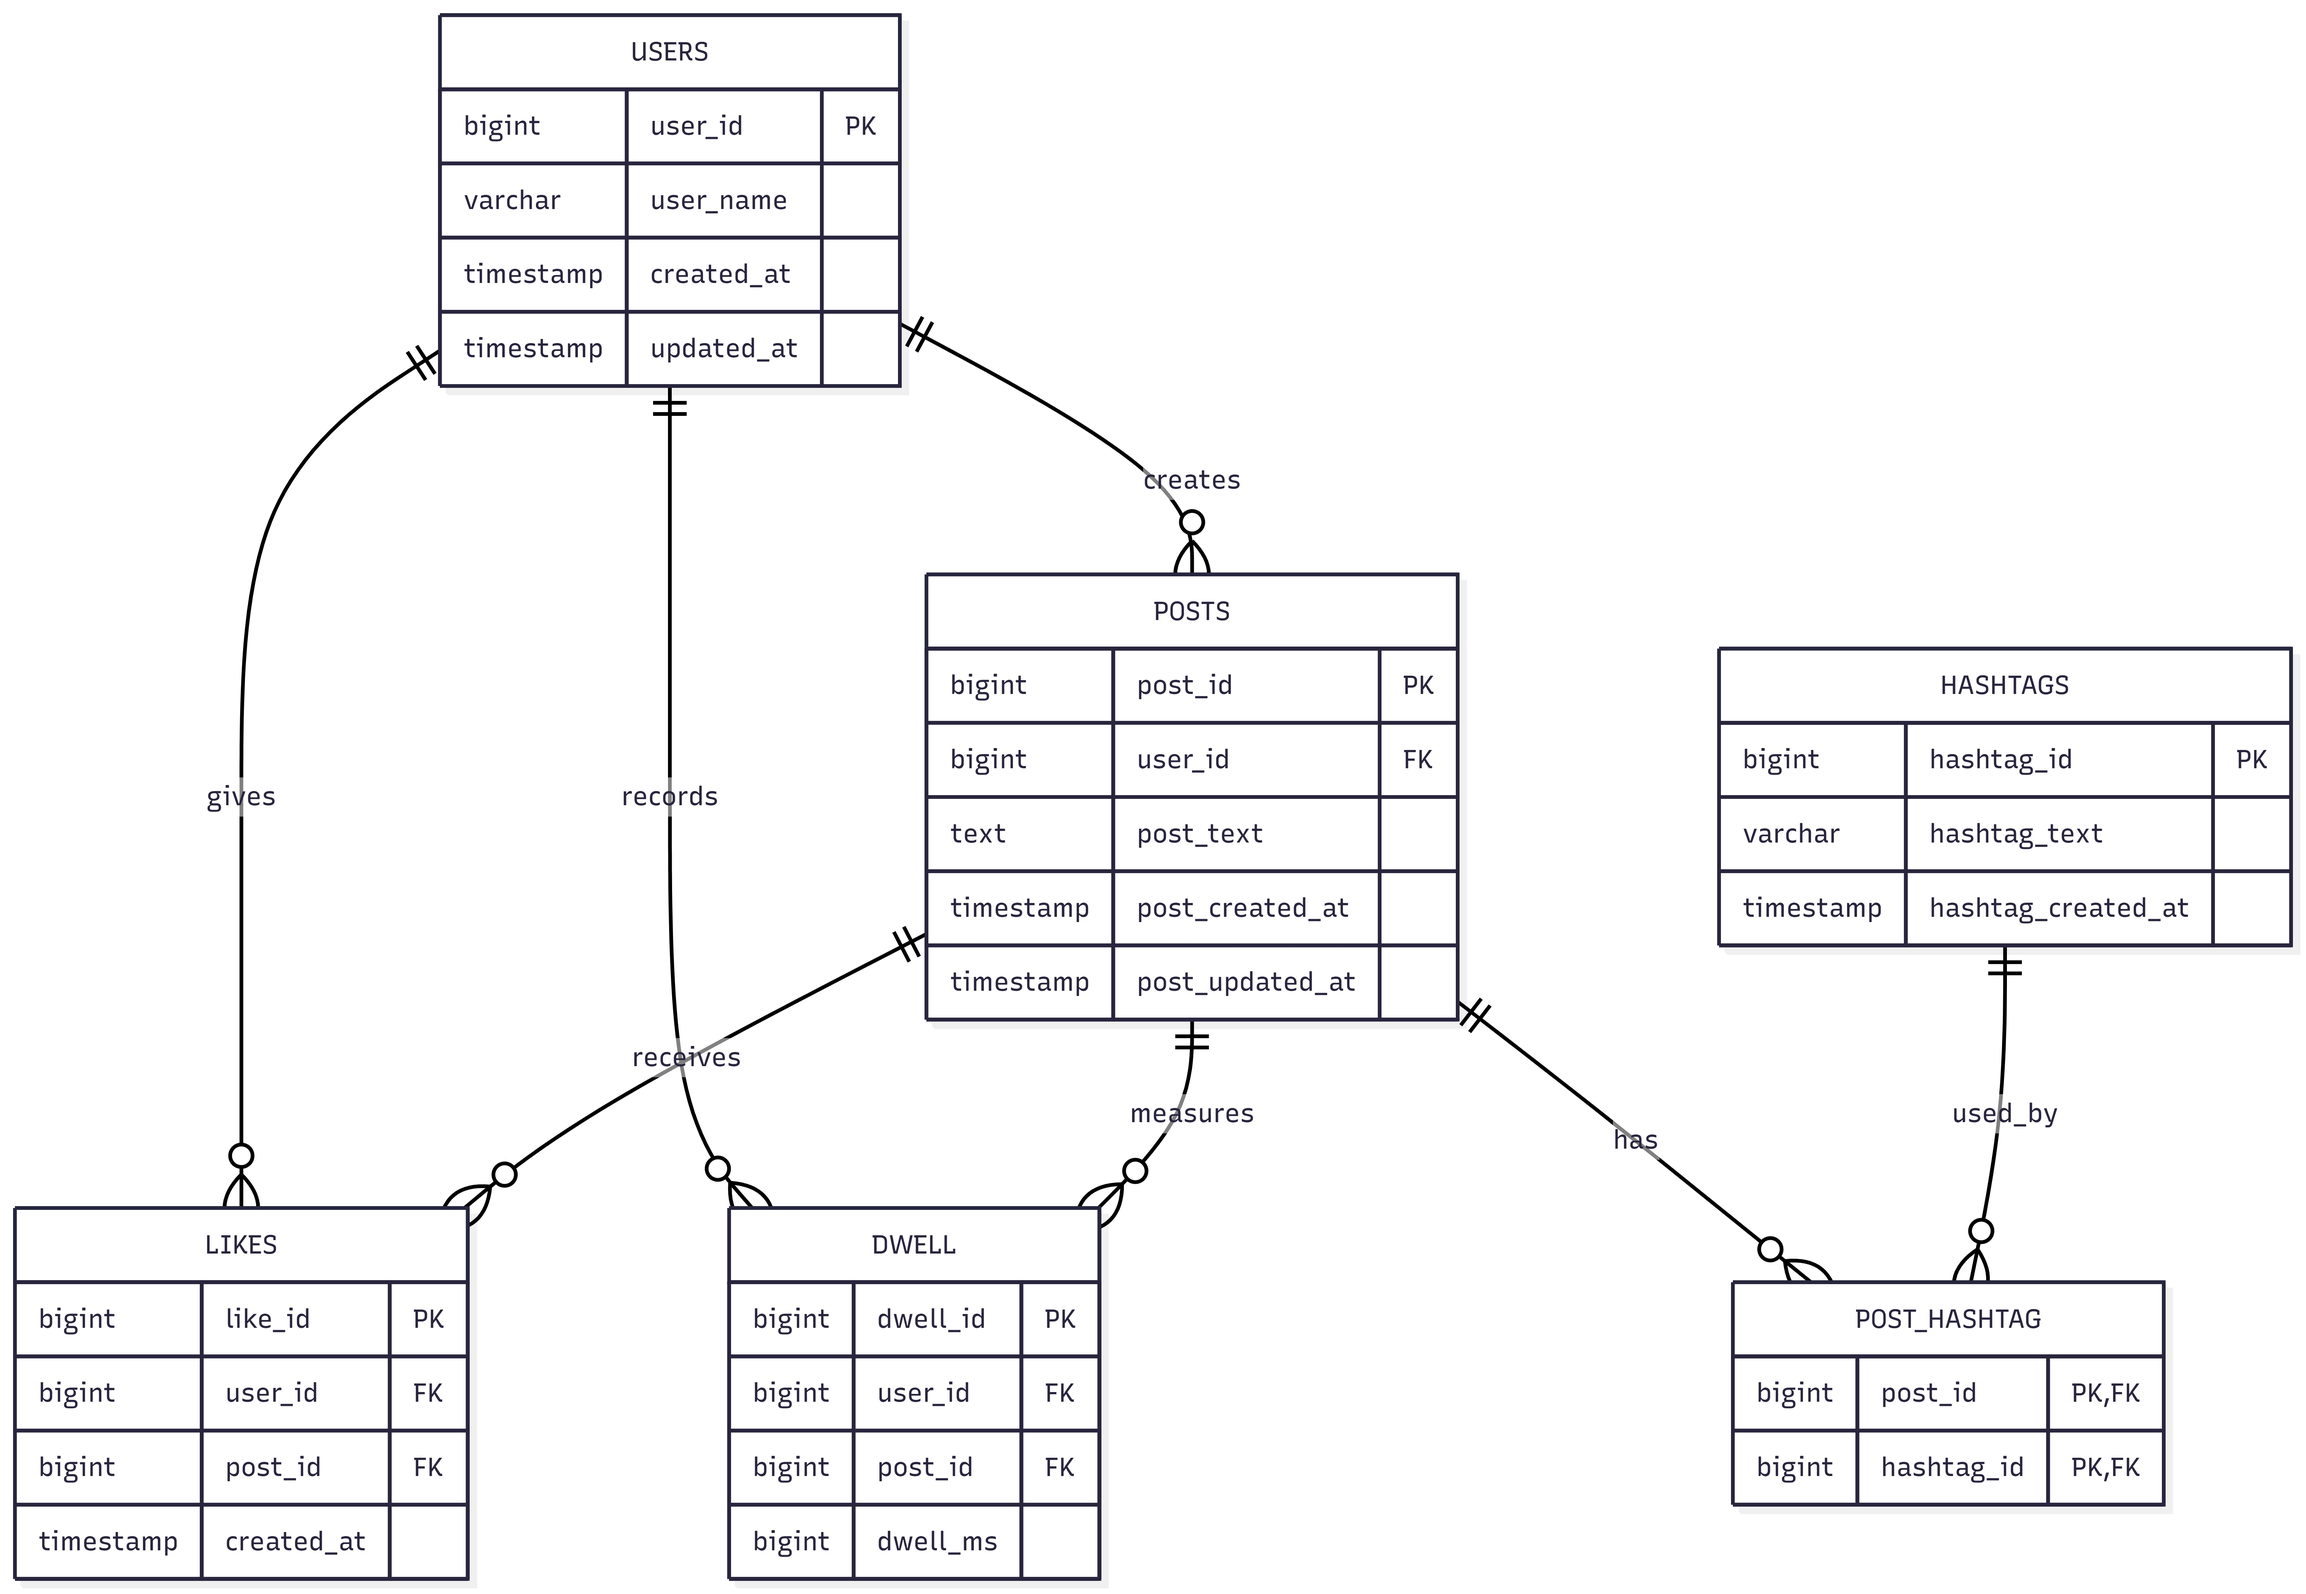
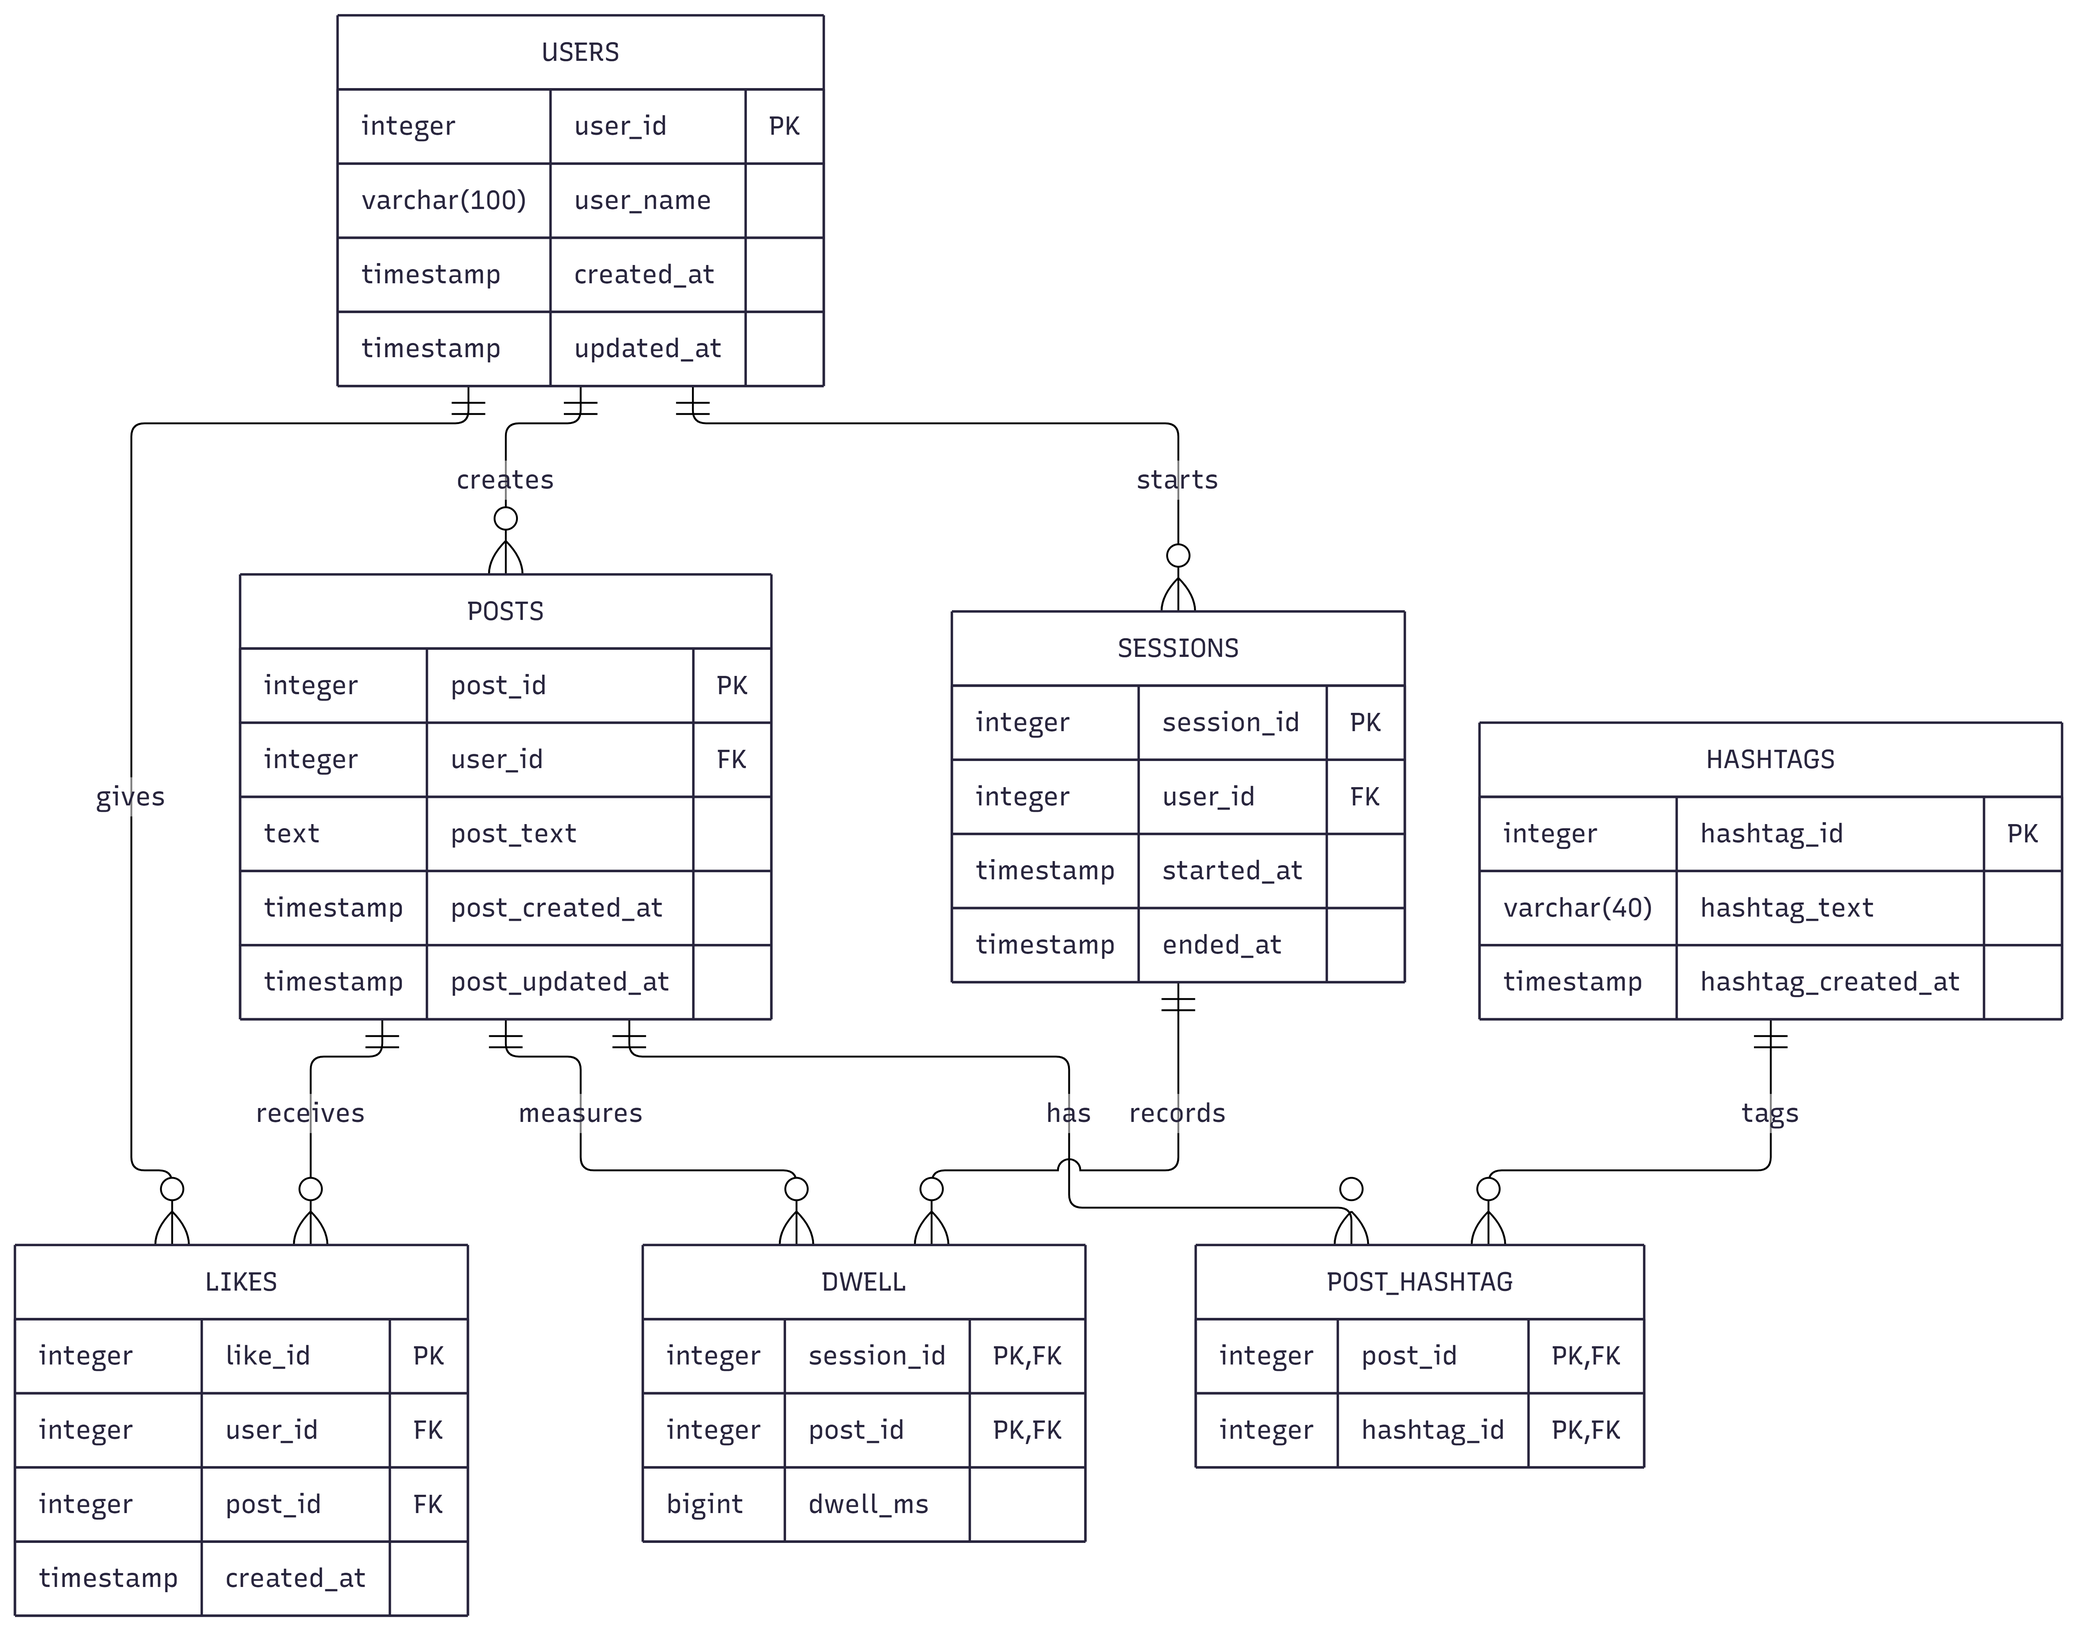
Assignment2PushUpdateSchema_AddScreenShots_UpdateAnalysis

diff --git a/analysis/unit2.md b/analysis/unit2.md
@@ -1,0 +1,42 @@
+# Task 2.2: Write up your reasoning
+
+# Reasoning and changes made
+
+The underyling schema was changed to allow for distinct sessions. Previously, the schema stored the relationship of dwell by dwell_id. However, when considering if there is multiple times they come, there wouldn't be distinct method to determine how much time they dwell. Therefore, sessions was added as a table to keep track of distinct sessions a user has and those sessions then correspond to the amount of time they dwell. In those instances, dwell is now modeled session_id and post_id. Sessions store the entire session a user has on the platform when they first enter and then exit. We can then track the dwell time on each post through these sessions.
+
+Some of the schema was also changed wuth delete behavior. We set constraints that no field would be capable of being NULL except user_id on posts for set null behavior. We also changed the remove Set NUll on Likes since this is already a child record and it won't affect it's parent record posts.
+
+# Constraints Table 
+
+
+| Foreign key | ON DELETE choice | Reason |
+|---|---|---|
+| `POSTS.user_id` references `USERS.user_id` | `SET NULL` | when a person deletes their user, their posts should still remain.  |
+| `SESSIONS.user_id` references `USERS.user_id` | `CASCADE` | Deleting a user should delete all their sessions. |
+| `LIKES.user_id` references `USERS.user_id` | `CASCADE` | Deleting a user should delete all of their likes. |
+| `LIKES.post_id` references `POSTS.post_id` | `CASCADE` |  Deleting a post should remove all of its likes. |
+| `DWELL.session_id` references `SESSIONS.session_id` | `CASCADE` | Deleting a session should remove all of its dwelling time. |
+| `DWELL.post_id` references `POSTS.post_id` | `CASCADE` | Deleting a post should remove how its dwelling time. |
+| `POST_HASHTAG.post_id` references `POSTS.post_id` | `CASCADE` | Deleting a post should remove any hashtag associations with it. |
+| `POST_HASHTAG.hashtag_id` references `HASHTAGS.hashtag_id` | `CASCADE` | Deleting a hashtag should remove its hashtag while keeping the posts |
+
+When a user deletes their account the posts that they created should still be visible on the platform. However, when htey deleete their session, all of their details about the dwell time should also be removed. Likewise, with posts all of its likes should be removed. All of its posts dwell time shoul dalso be removed. The post deletion should also trigger any hashtag associations with it. If we didn't remove these child interactions, we would have orphaned records of likes that have no posts, dwell time that have no sessions and hashtag assocations that have no hashtags. 
+
+# Check Constraints 
+
+The following check constraints exist. 
+
+| Table | Check Constraint | Reason 
+|---|---|---|
+|Users | username <> '' | username should not be an empty string| 
+| Posts | length(btrim(post_text) > 0) | posts should be empty strings |
+| Hashtag | hashtag_text <> '' | hashtags should not be empty strings. 
+| DWELL | dwell_ms > 0 | a person must have dwelled on a post for more than 0 ms 
+
+If these values aren't true, they wouldn't be allowed to enter the database. If we have 0 ms we can't properly find out how long someone dwells, this way it catches it before hand. 
+Someone always will dwell moment they come to the platform.
+Users cannot leave their username empty or blank and they can't create blank posts or hashtags and so these values are just not permitted to enter the database. 
+
+
+
+

diff --git a/README.md b/README.md
@@ -14,6 +14,8 @@ The general schema for the social media relational model is described below:
 
 # Schema 
 ![alt text](erd.png)
+
+It was updated on 9/27/2026 to reflect sessions table addition when modeling dwell time for multiple different sessions a user might come back to a post. 
 # Query Catalogue 
 
 # Technical Highlights 
